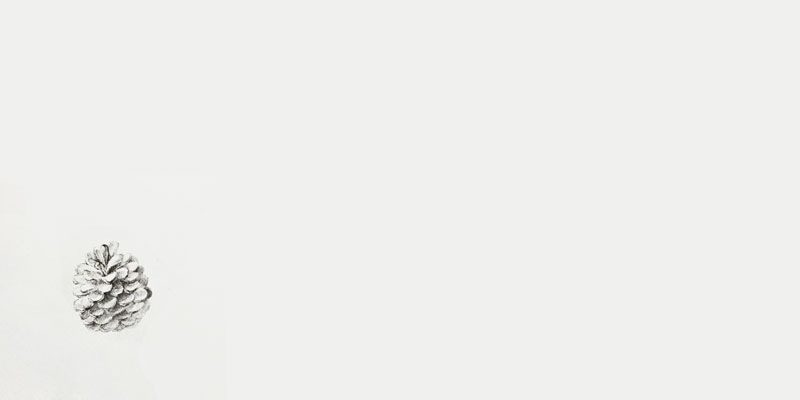
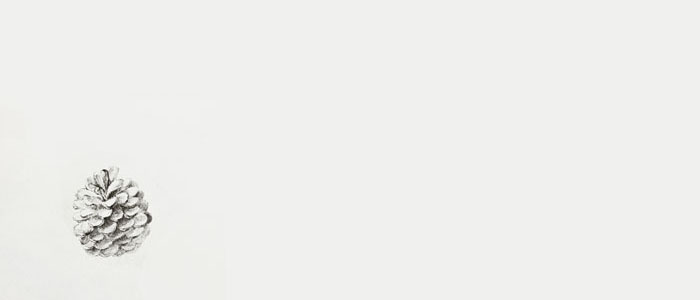
added z-index trick instead of css image-set

Changed region(s): [[0.09, 0.54, 0.24, 0.87]]

diff --git a/index.html b/index.html
@@ -39,8 +39,20 @@ src="https://netdna.bootstrapcdn.com/bootstrap/3.1.0/js/bootstrap.min.js" async>
 
     <!-- top image with a quote -->
     <section id="top" class="container-fluid top">
-      <div class="row"><div class="col-12">
-        <p class="text-right">The pine stays geen in winter,<br>wisdom in hardship.<br><small>- Chinese Proverb</small></p>
+      <div class="row"><div class="col-sx-12">
+        <picture>
+          <source media="screen and (max-width:400px)"
+                    srcset="img/hello_s_2x.jpg 2x, 
+                            img/hello_s_1x.jpg 1x">
+          <source media="screen and (min-width:401px) and (max-width:600px)"
+                    srcset="img/hello_m_2x.jpg 2x, 
+                            img/hello_m_1x.jpg 1x">
+          <source media="(min-width:601px)"
+                    srcset="img/hello_xl_2x.jpg 2x, 
+                            img/hello_xl_1x.jpg 1x">
+          <img src="img/hello_xl_2x.jpg" class="top-img" alt="my drawing of a pine">
+        </picture>
+        <p class="text-right top-quote">The pine stays geen in winter,<br>wisdom in hardship.<br><small>- Chinese Proverb</small></p>
       </div></div>
     </section>  
 
@@ -103,23 +115,6 @@ src="https://netdna.bootstrapcdn.com/bootstrap/3.1.0/js/bootstrap.min.js" async>
         </div>
       </div>
       <div class="row">
-        <!-- project: Simeji -->
-        <div id="#work-simeji" class="col-sm-4 mb-2">
-          <picture>
-            <source media="screen and (max-width:400px)"
-                    srcset="img/simeji_s_2x.jpg 2x, 
-                            img/simeji_s_1x.jpg 1x">
-            <source media="screen and (min-width:401px) and (max-width:767px)"
-                    srcset="img/simeji_m_2x.jpg 2x, 
-                            img/simeji_m_1x.jpg 1x">
-            <source media="(min-width:768px)"
-                    srcset="img/simeji_l_2x.jpg 2x, 
-                            img/simeji_l_1x.jpg 1x">
-            <img class="img-responsive"  src="img/simeji_s_1x.jpg" alt="Simeji">
-          </picture> 
-          <h3>Simeji UI/UX design</h3>
-          <p>Simeji is IME, which prediction is supported with cloud base dictionary. I lead its design and production team within intensive agile development environment when iOS opened its gate to the third party keyboard apps, resulting to receive <em>Best App 2014</em> by iTunes Store in Japan.</p> 
-        </div>
         <!-- project: Python trailer -->
         <div id="#work-python-trailer" class="col-sm-4 mb-2">
           <picture>

diff --git a/css/style.css b/css/style.css
@@ -80,41 +80,23 @@ header {
   height: 56px; }
 
 /* section top */
-.top {
+.top-quote {
   color: #191b1a;
   font-size: 16px;
-  padding: 60px 40px 0px 0px;
-  background-image: url("../img/hello_l_1x.jpg"); }
+  top: 155px;
+  right: 20px;
+  z-index: 1;
+  position: absolute; }
 
-@media screen and (max-width: 400px) {
-  .top {
-    height: 200px;
+.top-img {
+  width: 100%;
+  z-index: 0;
+  position: relative; }
+
+@media screen and (max-width: 530px) {
+  .top-quote {
     font-size: 12px;
-    background-image: -webkit-image-set("../img/hello_s_1x.jpg" 1x, "../img/hello_s_2x.jpg" 2x);
-    background-image: url("../img/hello_s_1x.jpg"); } }
-
-@media screen and (min-width: 401px) and (max-width: 600px) {
-  .top {
-    height: 300px;
-    padding-top: 100px;
-    background-image: -webkit-image-set("../img/hello_m_1x.jpg" 1x, "../img/hello_m_2x.jpg" 2x);
-    background-image: url("../img/hello_m_1x.jpg"); } }
-
-@media screen and (min-width: 601px) and (max-width: 900px) {
-  .top {
-    height: 450px;
-    padding-top: 200px;
-    padding-right: 80px;
-    background-image: -webkit-image-set("../img/hello_l_1x.jpg" 1x, "../img/hello_l_2x.jpg" 2x);
-    background-image: url("../img/hello_l_1x.jpg"); } }
-
-@media screen and (min-width: 900px) {
-  .top {
-    height: 600px;
-    padding-top: 220px;
-    padding-right: 100px;
-    background-image: -webkit-image-set("../img/hello_xl_1x.jpg" 1x, "../img/hello_xl_2x.jpg" 2x);
-    background-image: url("../img/hello_xl_1x.jpg"); } }
+    top: 140px; } }
 
 /* footer */
 footer {
